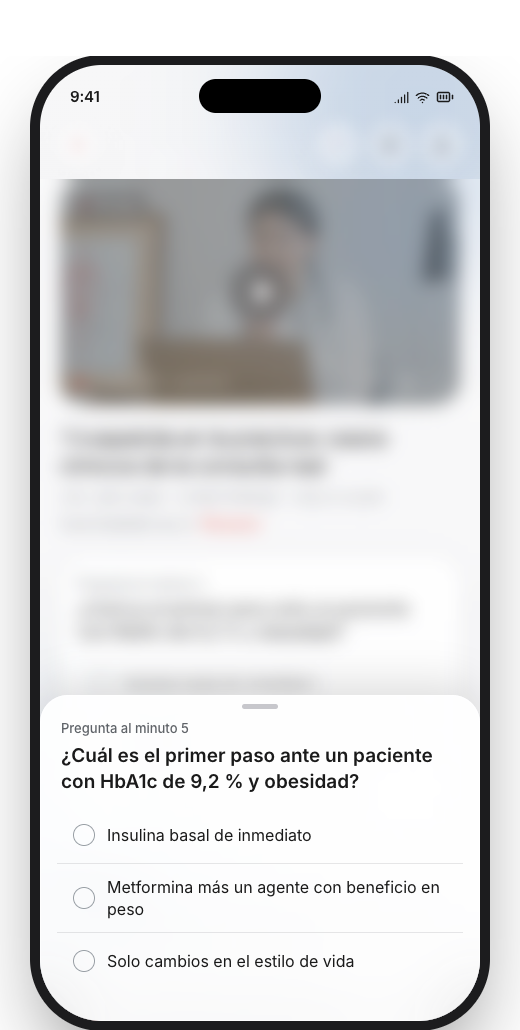
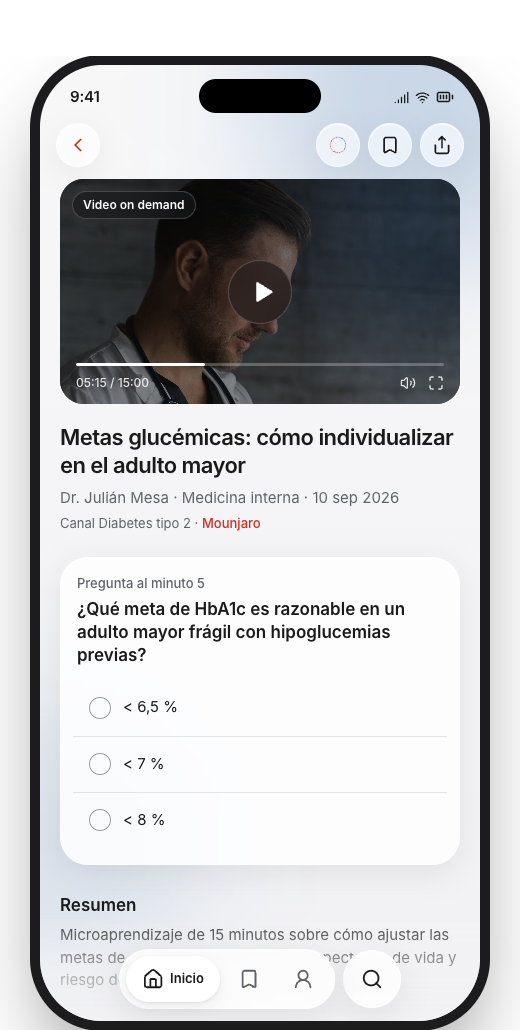
La lámina de microaprendizajes muestra el video con progreso, nítido

Changed region(s): [[0.0923, 0.0932, 0.8923, 0.5282], [0.0615, 0.5592, 0.8615, 0.9631]]

diff --git a/src/app.js b/src/app.js
@@ -499,6 +499,8 @@ function app() {
       // ?p=tema&e=mama&t=tratamiento abre una pantalla directa: sirve para pantallazos y para compartir un enlace.
       const q = new URLSearchParams(location.search);
       if (q.get('captura') === '1') document.body.classList.add('sin-animacion');
+      // ?pieza=<n> elige qué contenido de Formación se abre: sirve para las capturas de la historia.
+      if (q.get('pieza')) { const n = +q.get('pieza'); const lista = this.formacion[this.enfermedad]; if (lista && lista[n]) this.pieza = lista[n]; }
       if (q.get('solo') === '1') { this.solo = true; this.guia = false; }
       if (q.get('guia') === '0') this.guia = false;
       if (q.get('e') && this.enfermedades[q.get('e')]) this.enfermedad = q.get('e');
